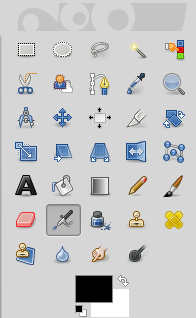
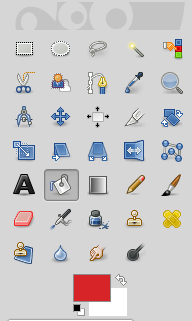
Première correction.

diff --git a/tutoriels/gimp_01_Visuel_simple.md b/tutoriels/gimp_01_Visuel_simple.md
@@ -1,17 +1,17 @@
-# 01 - Gimp pour réaliser des visuels très simples
+# 01 - Gimp pour réaliser des visuels très simples.
 
 Ce tutoriel est prévu pour apprendre à utiliser les fonctions élémentaires de Gimp. Nous y réaliserons un visuel très simple : un texte sur fond uni, signé avec le logo du parti.
 
 Mais avant de commencer, pourquoi ce logiciel ? Il y a deux raisons majeures :
 * Il est disponible gratuitement et légalement sur les trois systèmes d'exploitation principaux (Windows, MacOs, GNU/Linux), et peut donc facilement servir de standard entre des gens qui n'utilisent pas tou·te·s les mêmes solutions techniques (comme c'est notre cas au parti).
-* Même si son utilisation est plus austère, il permet d'obtenir des résultats comparables à ceux de la suite Adobe.
+* Même si son utilisation est plus austère, il permet d'obtenir des résultats comparables à ceux de la suite Adobe. C'est un logiciel puissant, même si on l'utilise ici pour faire des choses élémentaires.
 * C'est un logiciel libre, qui apporte donc des garanties fortes en termes de protection des données, de sécurité, etc.
 
 Avant tout, il faut télécharger et installer Gimp en utilisant l'exécutable fourni [à cette adresse](https://www.gimp.org/downloads/), puis le démarrer.
 
-## Créer une nouvelle image et découvrir l'interface
+## Créer une nouvelle image et découvrir l'interface.
 
-### Créer une nouvelle image
+### Créer une nouvelle image.
 
 Commençons par créer une nouvelle image. Pour ce faire, on clique en haut à sur Fichier ⟶ Nouvelle image.
 La fenêtre suivante s'ouvre alors : elle permet de choisir les dimensions de la nouvelle image.
@@ -21,7 +21,7 @@ La fenêtre suivante s'ouvre alors : elle permet de choisir les dimensions de la
 On sait que, sur la plupart des réseaux sociaux, il y a des dimensions optimales pour qu'une image apparaisse bien, qu'elle ne soit pas rognée, etc. Sur Facebook, une image partagée ne doit pas excéder les 1200 x 630 pixels (1200 pixels de large sur 630 pixels de haut).
 Mais pour notre premier visuel, on va faire ce qu'il y a de plus simple : un carré. Au lieu des valeurs pré-remplies, il faut donc entrer, pour créer notre nouvelle image, une largeur et une hauteur toutes deux égales à 600.
 
-### Découvrir l'interface
+### Découvrir l'interface.
 
 On se retrouve donc normalement avec l'écran suivant.
 
@@ -36,11 +36,11 @@ Il se décompose comme suit :
 Nous allons immédiatement mettre les doigts dans la barre de menu, en cliquant sur l'onglet Calques ⟶ Transparence ⟶ Ajouter un canal alpha.
 Cette opération consiste à activer la transparence (le "canal alpha"), dont nous aurons besoin pour "imprimer" le logo du parti par-dessus l'image.
 
-## Colorier l'arrière-plan
+## Colorier l'arrière-plan.
 
-### Sélectionner une couleur
+### Choisir une couleur.
 
-Dans le panneau des outils, on sélectionne une couleur :
+Dans le panneau des outils, on sélectionne une couleur en cliquant sur le bouton indiqué par la flèche rouge :
 
 ![Sélection de la couleur](gimp_01_aux/03_selection_couleur_a.png)
 
@@ -48,29 +48,29 @@ On se retrouve dans la fenêtre suivante :
 
 ![Sélection de la couleur](gimp_01_aux/03_selection_couleur_b.png)
 
-Pour choisir une couleur, on peut utiliser la palette à gauche avec la souris, mais en général, quand on sait déjà laquelle on veut, on utilise directement son code HTML. En l'occurence, entrons le code d72428 : c'est un beau rouge. On valide.
+Pour choisir une couleur, on peut utiliser la palette à gauche avec la souris, mais en général, quand on sait déjà laquelle on veut, on utilise directement son code HTML (en remplissant le champ "Notation HTML"). En l'occurence, entrons le code d72428 : c'est un beau rouge. On valide.
 
-### Colorier
+### Colorier avec la couleur choisie.
 
-Il faut encore choisir l'outil "Pot de peinture", qui permet de remplir une zone de l'image avec la couleur sélectionnée :
+Il faut encore choisir l'outil "Pot de peinture" (sélectionné ci-dessous) :
 
 ![Pot de peinture](gimp_01_aux/04_pot_peinture.png)
 
-Une fois que le pot de peinture est sélectionné, il n'y a plus qu'à cliquer avec sur notre carré blanc pour le colorier entièrement. 
+Le pot de peinture permet de remplir une zone de l'image avec la couleur qu'on a choisie. Une fois qu'il est sélectionné, il n'y a plus qu'à cliquer avec sur notre carré blanc pour le colorier entièrement. 
 
-### Résultat
+### Résultat après avoir colorié.
 
 Maintenant, l'image devrait ressembler à ceci :
 
 ![Pot de peinture](gimp_01_aux/05_fond_rouge.png)
 
-## Écrire le texte
+## Écrire le texte.
 
-On va ajouter un slogan plein de bonnes intentions : "Pour aider les soignant·e·s, restons chez nous." On va l'écrire en blanc sur le fond rouge : il faut donc commencer par sélectionner la couleur blanche dans le panneau des outils.
+On va ajouter un slogan plein de bonnes intentions : "Pour aider les soignant·e·s, restons chez nous." On va l'écrire en blanc sur le fond rouge : il faut donc commencer par sélectionner la couleur blanche dans le panneau des outils (sinon, on risque d'écrire en rouge sur fond rouge...).
 
-### Choix de la police
+### Choisir la police du texte.
 
-La police dépend du sentiment qu'on veut faire passer. Ici, puisqu'on veut transmettre de la douceur et de la bienveillance, on va choisir une police ronde, douche, qui imite l'écriture manuscrite : Pacifico, qui peut être téléchargée [ici](https://www.dafont.com/fr/pacifico.font).
+La police dépend du sentiment qu'on veut faire passer. Ici, puisqu'on veut transmettre de la douceur et de la bienveillance, on va choisir une police ronde, douce, qui imite l'écriture manuscrite : Pacifico, qui peut être téléchargée [ici](https://www.dafont.com/fr/pacifico.font).
 
 On sélectionne l'outil "Texte" :
 
@@ -80,21 +80,21 @@ Et, dans les options du texte, juste en-desous, on peut sélectionner notre poli
 
 ![Options du texte](gimp_01_aux/07_texte_options.png)
 
-### Taille du texte
+### Choisir la taille du texte.
 
 Pour commencer à écrire, il suffit de cliquer avec l'outil "Texte" sur l'image. Une fois notre texte tapé, on peut l'agrandir, en le sélectionnant et en augmentant la taille de police. On peut changer sa position en utilisant les "poignées" du cadre de texte. Il vaut mieux qu'il soit aussi grand que possible, et qu'il soit positionné au milieu de la page, pour être vu immédiatement quand les gens scrollent sur leur mur Facebook.
 
 ![Taille du texte](gimp_01_aux/08_texte_taille.png)
 
-### Résultat
+### Résultat après avoir écrit le texte.
 
 Essayons d'obtenir un résultat comme celui-là :
 
 ![Texte](gimp_01_aux/09_texte_resultat.png)
 
-## Signer avec le logo
+## Signer avec le logo.
 
-### Sa familiariser avec les calques
+### Sa familiariser avec les calques.
 
 Jetons un œil au premier panneau à droite de l'image, qui liste les différents calques de l'image :
 
@@ -102,7 +102,7 @@ Jetons un œil au premier panneau à droite de l'image, qui liste les différent
 
 Il y a pour l'instant 2 calques : l'arrière-plan et le texte. Cela signifie que notre image est faite de 2 couches, l'une sur l'autre.
 
-### Importer un nouveau calque
+### Importer un nouveau calque.
 
 On va importer notre logo sous la forme d'un nouveau calque, intercalé entre l'arrière-plan et le texte.
 
@@ -112,7 +112,7 @@ On va importer notre logo sous la forme d'un nouveau calque, intercalé entre l'
 
 ![Nouveau calque](gimp_01_aux/11_nouveau_calque.png)
 
-### Manipuler notre nouveau calque
+### Manipuler notre nouveau calque.
 
 Il est néanmoins beaucoup trop gros : on va le redimensionner. Clic droit sur le nouveau calque, puis Échelle et taille du calque. On va se contenter de 100 pixels en largeur et 100 pixels en hauteur :
 
@@ -125,11 +125,13 @@ Maintenant, notre logo a la bonne taille, mais il n'est pas à la bonne place su
 
 Avec l'outil de déplacement, on clique sur le logo, et on fait glisser-déposer pour le déposer où on veut, en l'occurence, un peu en dessous du texte.
 
-### Résultat
+### Résultat après importation du logo.
 
 Le visuel est fini. Il devrait maintenant ressembler à ceci :
 
 ![Fini](gimp_01_aux/14_fini.png)
+
+## Conclusion
 
 Il n'y a plus qu'à :
 * L'enregistrer en faisant Fichier ⟶ Enregistrer sous. C'est ce fichier qu'il faudra ouvrir si on veut retravailler notre modèle, changer, le texte, manipuler les calques, etc.
